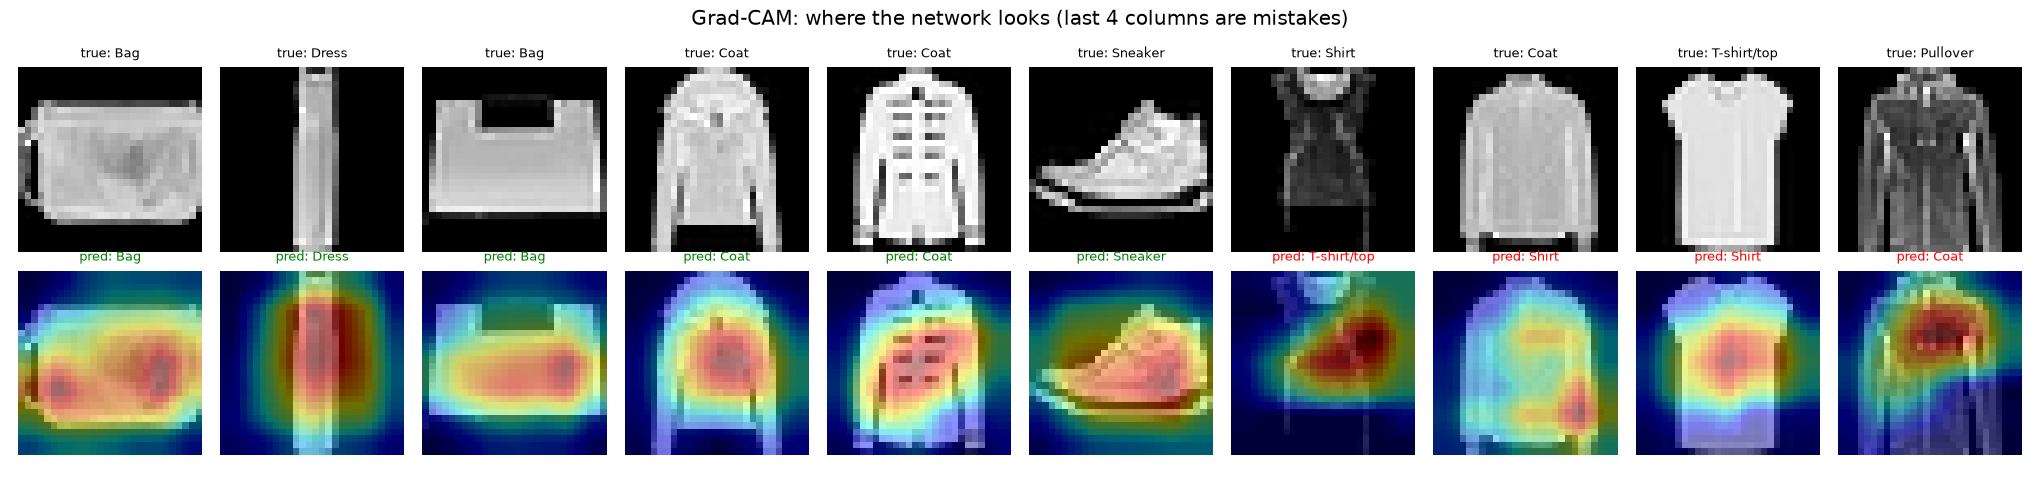
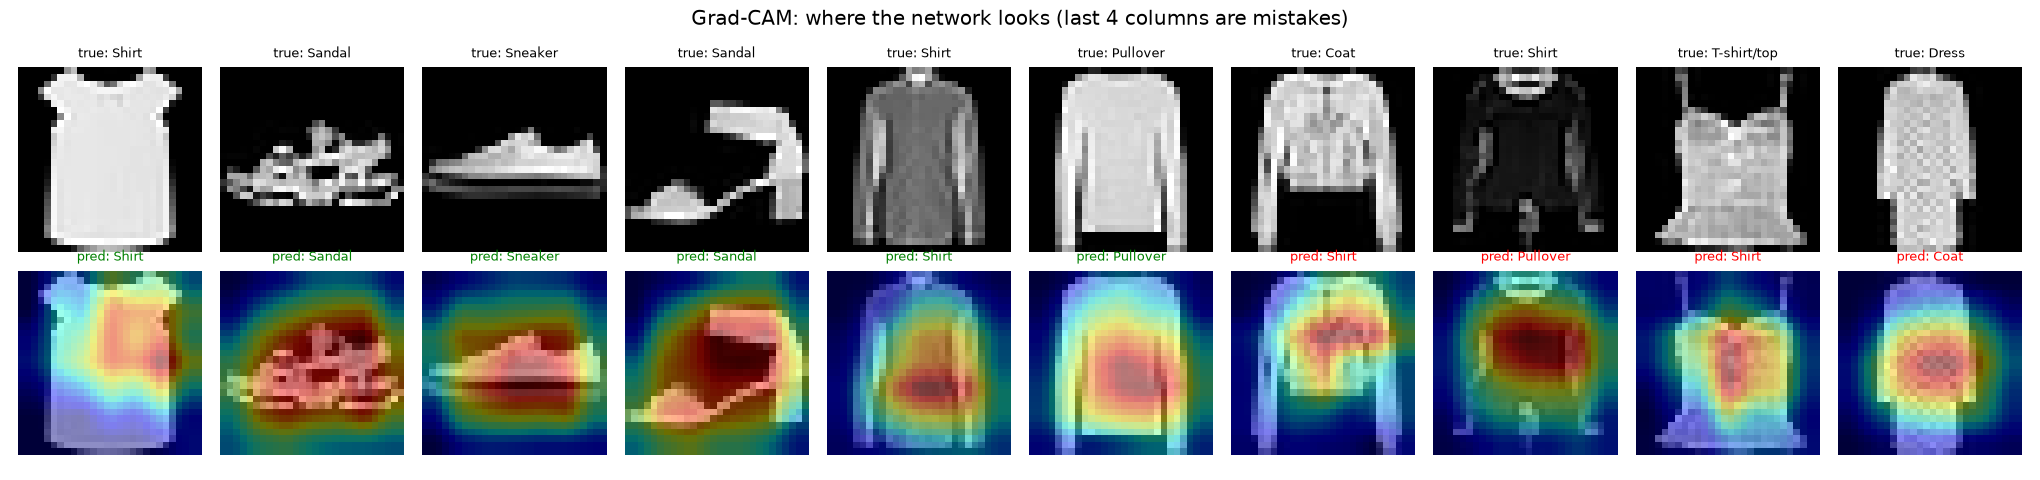
Evaluate with flip test-time augmentation, chosen on validation
predict() can average the softmax of an image and its mirror, matching the
horizontal flips used in training. The decision is made on the validation
split (93.60% -> 93.80%) before the test set is touched. Same deterministic
training run: single-pass test accuracy reproduces the published 92.82%,
flip TTA gives 93.05%, and Shirt F1 rises from 0.780 to 0.785. metrics.json
keeps both numbers; the README and figures are regenerated.

diff --git a/src/fashion_cnn/train.py b/src/fashion_cnn/train.py
@@ -65,11 +65,16 @@ def loaders(root: str, batch: int, seed: int):
 
 
 @torch.no_grad()
-def predict(model, loader, device):
+def predict(model, loader, device, tta: bool = False):
+    """Class probabilities; with tta=True, averaged over the image and its mirror (training uses flips too)."""
     model.eval()
     ys, ps = [], []
     for x, y in loader:
-        ps.append(model(x.to(device)).softmax(1).cpu())
+        x = x.to(device)
+        p = model(x).softmax(1)
+        if tta:
+            p = (p + model(x.flip(-1)).softmax(1)) / 2
+        ps.append(p.cpu())
         ys.append(y)
     return torch.cat(ys).numpy(), torch.cat(ps).numpy()
 
@@ -107,7 +112,10 @@ def main(args):
             torch.save(model.state_dict(), out / "best.pt")
 
     model.load_state_dict(torch.load(out / "best.pt", map_location=device))
-    yt, pt = predict(model, te, device)
+    # whether flip-averaging helps is checked on the validation split, not the test set
+    yv, pv_tta = predict(model, va, device, tta=True)
+    yt, pt_plain = predict(model, te, device)
+    _, pt = predict(model, te, device, tta=True)
     pred = pt.argmax(1)
     rep = classification_report(yt, pred, target_names=CLASSES, output_dict=True, digits=4)
     cm = confusion_matrix(yt, pred)
@@ -118,6 +126,8 @@ def main(args):
         "params": count_params(model),
         "epochs": args.epochs,
         "best_val_acc": round(best_acc, 4),
+        "best_val_acc_tta": round(float((pv_tta.argmax(1) == yv).mean()), 4),
+        "test_acc_no_tta": round(float((pt_plain.argmax(1) == yt).mean()), 4),
         "test_acc": round(float((pred == yt).mean()), 4),
         "test_macro_f1": round(rep["macro avg"]["f1-score"], 4),
         "per_class_f1": {c: round(rep[c]["f1-score"], 4) for c in CLASSES},

diff --git a/README.md b/README.md
@@ -11,15 +11,19 @@ model fails.
 
 | Metric | Value |
 |---|---|
-| Test accuracy | **92.82%** |
-| Test macro-F1 | **0.928** |
+| Test accuracy (with flip TTA) | **93.05%** |
+| Test accuracy (single pass) | 92.82% |
+| Test macro-F1 | **0.930** |
 | Parameters | 392K |
 | Training | 7 epochs on a laptop CPU (~15 min) |
 
-Per-class F1: Trouser 0.990, Bag 0.989, Sandal 0.982, Ankle boot 0.967, Sneaker 0.964, Dress 0.929,
-Pullover 0.908, Coat 0.886, T-shirt/top 0.884, **Shirt 0.780**.
+Test-time augmentation averages the prediction for an image and its mirror image. It was adopted because it
+helped on the validation split (93.60% -> 93.80%), before the test set was scored.
 
-The weakest class is *Shirt*; the most common mistake is **Shirt predicted as T-shirt/top (102 images)**.
+Per-class F1: Trouser 0.992, Bag 0.988, Sandal 0.983, Ankle boot 0.967, Sneaker 0.966, Dress 0.931,
+Pullover 0.907, Coat 0.896, T-shirt/top 0.888, **Shirt 0.785**.
+
+The weakest class is *Shirt*; the most common mistake is **Shirt predicted as T-shirt/top (100 images)**.
 These classes share silhouettes at 28x28 and differ mainly in collars and buttons, which the Grad-CAM maps
 below show the model often does not look at.
 
@@ -48,7 +52,7 @@ Outputs go to `reports/` (`metrics.json`, confusion matrix, Grad-CAM figure).
 ## Next steps
 
 - Wider network and longer schedule on a GPU (the run here was sized for a laptop CPU).
-- Test-time augmentation and a small ensemble.
+- A small ensemble of independently seeded models.
 - Higher-resolution inputs or attention on the collar region to separate Shirt from T-shirt.
 
 ## License
